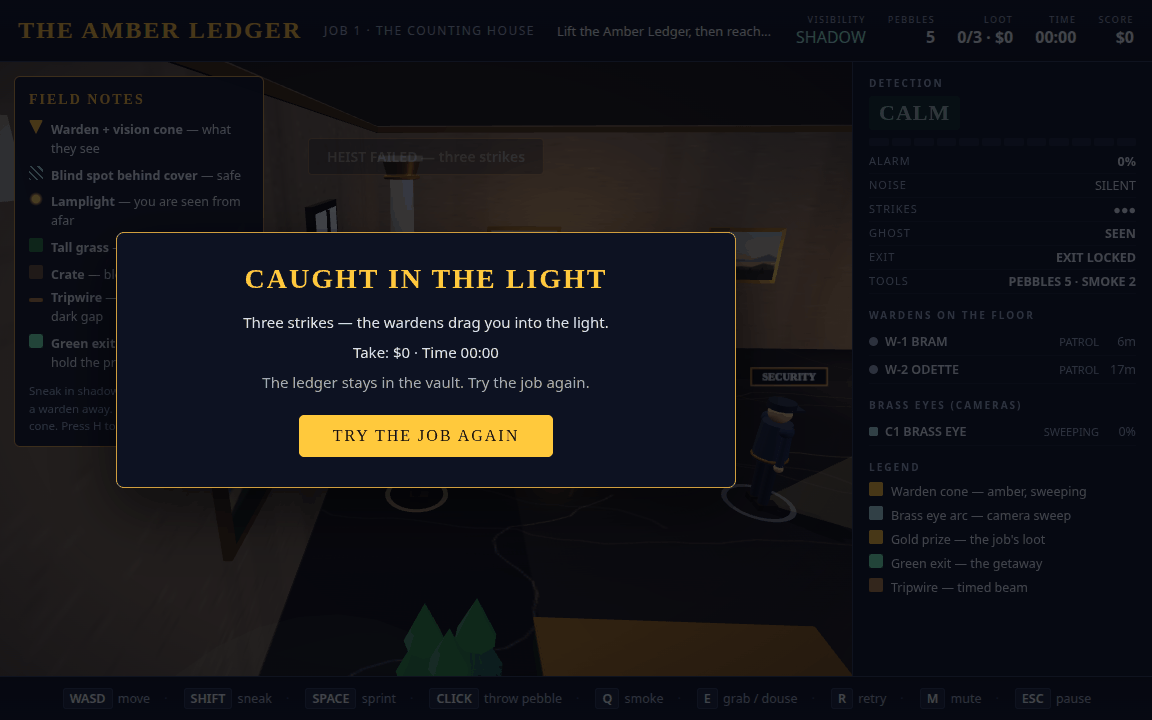
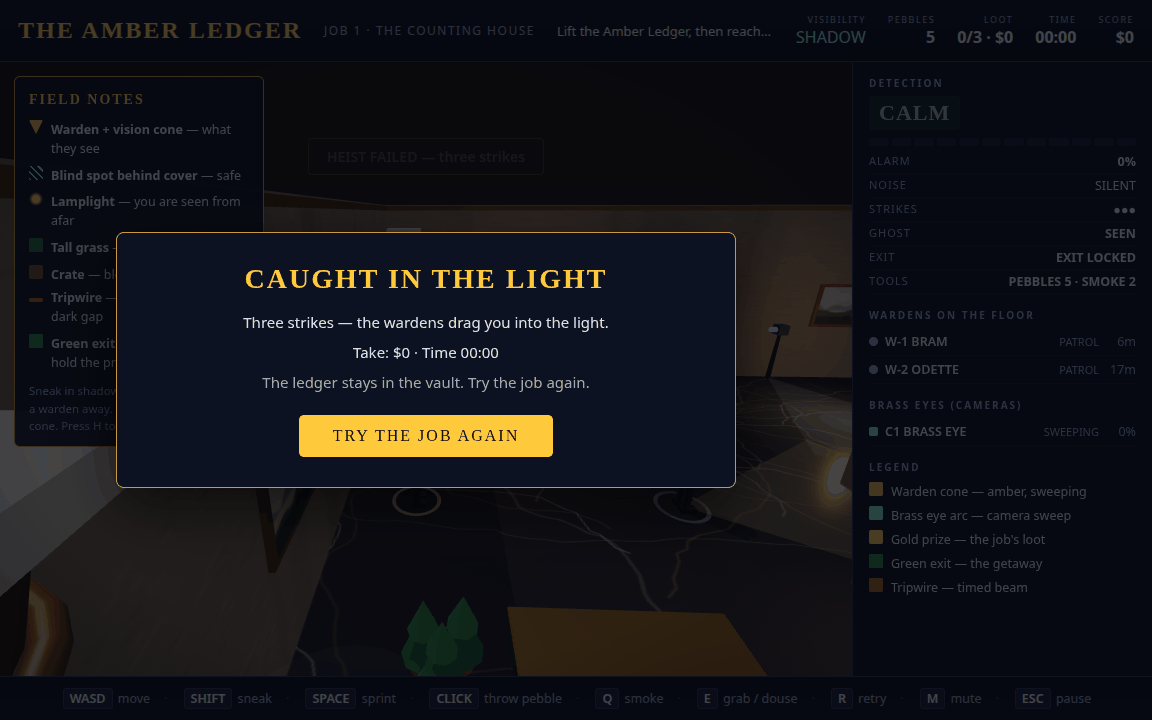
Polish heist render vs reference: grand staged camera, brighter marble, guard faces, vault door fully clear, loot label in frame

diff --git a/game/src/render.js b/game/src/render.js
@@ -120,18 +120,20 @@ function coneFadeTexture() {
   });
 }
 
-// Black marble with white and gold veins, like the reference floor.
+// Black marble with strong white and gold veins, like the reference
+// floor: a lighter base, denser veins and a polished sheen, so the
+// floor reads bright and rich at the low camera's grazing angle.
 function marbleTexture(seed) {
   const rnd = mulberry32(seed);
   return canvasTexture(1024, 1024, (g, w, h) => {
-    g.fillStyle = '#232329';
+    g.fillStyle = '#303038';
     g.fillRect(0, 0, w, h);
     // Large soft mottling.
     for (let i = 0; i < 14; i++) {
       const x = rnd() * w, y = rnd() * h, r = 120 + rnd() * 260;
       const grad = g.createRadialGradient(x, y, 0, x, y, r);
       const v = rnd() > 0.5 ? '255,255,255' : '0,0,0';
-      grad.addColorStop(0, `rgba(${v},${0.05 + rnd() * 0.05})`);
+      grad.addColorStop(0, `rgba(${v},${0.06 + rnd() * 0.06})`);
       grad.addColorStop(1, `rgba(${v},0)`);
       g.fillStyle = grad;
       g.fillRect(x - r, y - r, r * 2, r * 2);
@@ -153,9 +155,9 @@ function marbleTexture(seed) {
       }
       g.stroke();
     }
-    for (let i = 0; i < 26; i++) vein('rgba(230,235,245,A)', 0.08 + rnd() * 0.12, 1 + rnd() * 1.6);
-    for (let i = 0; i < 8; i++) vein('rgba(205,165,85,A)', 0.1 + rnd() * 0.1, 0.8 + rnd() * 1);
-    for (let i = 0; i < 5; i++) vein('rgba(240,244,255,A)', 0.22 + rnd() * 0.1, 0.8);
+    for (let i = 0; i < 44; i++) vein('rgba(230,235,245,A)', 0.14 + rnd() * 0.16, 1 + rnd() * 1.4);
+    for (let i = 0; i < 12; i++) vein('rgba(205,165,85,A)', 0.14 + rnd() * 0.12, 0.8 + rnd() * 1);
+    for (let i = 0; i < 10; i++) vein('rgba(240,244,255,A)', 0.3 + rnd() * 0.15, 1.0);
   });
 }
 
@@ -293,11 +295,17 @@ function sectorRingGeometry(radius, halfAngle) {
 // always sits 8.5 units south of the thief, so no column stands in the
 // south hall band where the camera travels — the hall columns sit at the
 // room's east side instead, and the vault-flank columns stand clear of
-// the vault door's face so the door reads as the backdrop.
+// the vault door's face so the door reads as the backdrop. Job 1's west
+// vault-flank column stands INSIDE the vault room (21.8, 5.2): from the
+// cover camera the sight line to the door crosses (22.8, 7.9), so a
+// column there would cut the door in half. The north-east corner
+// column sits south of the corner (z 4.2) for the same reason: the
+// vault door stands close to the east wall, and a corner column at
+// (28.3, 1.7) crosses the door's right edge from the cover camera.
 const COLUMNS = {
-  1: [[1.7, 1.7], [28.3, 1.7], [1.7, 16.3], [28.3, 16.3], [22.8, 7.9], [28.2, 7.9], [13.5, 7.5], [27.5, 12.5]],
-  2: [[1.7, 1.7], [28.3, 1.7], [1.7, 16.3], [28.3, 16.3], [21.8, 7.9], [27.2, 7.9], [13.5, 7.5], [27.5, 12.5]],
-  3: [[1.7, 1.7], [30.3, 1.7], [1.7, 18.3], [30.3, 18.3], [23.8, 8.9], [29.2, 8.9], [14.5, 8.5], [30.3, 13.5]],
+  1: [[1.7, 1.7], [28.3, 4.2], [1.7, 16.3], [28.3, 16.3], [21.8, 5.2], [28.2, 7.9], [13.5, 7.5], [27.5, 12.5]],
+  2: [[1.7, 1.7], [28.3, 4.2], [1.7, 16.3], [28.3, 16.3], [21.8, 7.9], [27.2, 7.9], [13.5, 7.5], [27.5, 12.5]],
+  3: [[1.7, 1.7], [30.3, 4.2], [1.7, 18.3], [30.3, 18.3], [23.8, 8.9], [29.2, 8.9], [14.5, 8.5], [30.3, 13.5]],
 };
 // Red carpet runner: centre x, from y0 (vault gap) to y1 (south hall).
 const RUNNERS = {
@@ -328,6 +336,14 @@ export function createRenderer(canvas) {
   const CAM_FOV = 58;
   const LOOK_AHEAD = 3.5;
   const LOOK_HEIGHT = 0.9;
+  // Staged shots (cover / smoke / win / caught) use a wider, higher
+  // establishing camera so the whole vault hall reads in one grand frame
+  // like the reference: the vault door, the columns, the carpet and the
+  // guards all in view at once. Live play keeps the closer follow camera.
+  const STAGE_HEIGHT = 6.2;
+  const STAGE_FOV = 70;
+  const STAGE_LOOK_AHEAD = 6.0;
+  const STAGE_LOOK_HEIGHT = 1.3;
   const camera = new THREE.PerspectiveCamera(CAM_FOV, 1, 0.1, 200);
   camera.position.set(0, CAM_HEIGHT, CAM_BACK);
   const desiredPos = new THREE.Vector3();
@@ -449,6 +465,25 @@ export function createRenderer(canvas) {
       const badge = new THREE.Mesh(new THREE.BoxGeometry(0.1, 0.13, 0.02), goldMat);
       badge.position.set(0, 1.3, 0.23);
       g.add(badge);
+      // A simple readable face: dark eyes, a nose and a mouth on the
+      // skin-tone head. The eyes sit low (y 1.63) so the cap brim does
+      // not hide them from the low camera's downward angle.
+      const eyeMat = new THREE.MeshStandardMaterial({ color: 0x14100d, roughness: 0.4 });
+      for (const s of [-1, 1]) {
+        const eye = new THREE.Mesh(new THREE.SphereGeometry(0.03, 8, 8), eyeMat);
+        eye.position.set(s * 0.062, 1.63, 0.155);
+        g.add(eye);
+      }
+      const noseMat = new THREE.MeshStandardMaterial({ color: 0xb98d63, roughness: 0.8 });
+      const nose = new THREE.Mesh(new THREE.SphereGeometry(0.02, 8, 8), noseMat);
+      nose.position.set(0, 1.59, 0.158);
+      g.add(nose);
+      const mouth = new THREE.Mesh(
+        new THREE.BoxGeometry(0.09, 0.018, 0.012),
+        new THREE.MeshStandardMaterial({ color: 0x5a2e22, roughness: 0.8 }),
+      );
+      mouth.position.set(0, 1.55, 0.152);
+      g.add(mouth);
     }
     return { group: g, legL, legR, armL, armR };
   }
@@ -597,17 +632,29 @@ export function createRenderer(canvas) {
     const p = game.player;
     const level = game.level;
     if (!p || !level) return;
+    // Staged moments get the grand establishing camera; live play keeps
+    // the closer follow camera. (buildLevel calls this with a fake game
+    // that has no phase, so it defaults to the follow camera.)
+    const staged = game.phase === 'staged' || game.phase === 'staged-complete' || game.phase === 'failed';
+    const height = staged ? STAGE_HEIGHT : CAM_HEIGHT;
+    const lookAhead = staged ? STAGE_LOOK_AHEAD : LOOK_AHEAD;
+    const lookHeight = staged ? STAGE_LOOK_HEIGHT : LOOK_HEIGHT;
+    const fov = staged ? STAGE_FOV : CAM_FOV;
+    if (camera.fov !== fov) {
+      camera.fov = fov;
+      camera.updateProjectionMatrix();
+    }
     // The camera stays inside the room (the 6-high perimeter walls would
     // block the view from outside), a few steps south of the thief.
     desiredPos.set(
       clamp(p.x, 3, level.w - 3),
-      CAM_HEIGHT,
+      height,
       clamp(p.y + CAM_BACK, 2, level.h - 1.2),
     );
     desiredLook.set(
       clamp(p.x, 1.5, level.w - 1.5),
-      LOOK_HEIGHT,
-      clamp(p.y - LOOK_AHEAD, 0.5, level.h - 0.5),
+      lookHeight,
+      clamp(p.y - lookAhead, 0.5, level.h - 0.5),
     );
     if (force || camera.position.distanceTo(desiredPos) > 4) {
       camera.position.copy(desiredPos);
@@ -648,8 +695,8 @@ export function createRenderer(canvas) {
     const floor = new THREE.Mesh(
       new THREE.PlaneGeometry(level.w, level.h),
       new THREE.MeshPhysicalMaterial({
-        map: floorTex, roughness: 0.32, metalness: 0.08,
-        clearcoat: 0.6, clearcoatRoughness: 0.3,
+        map: floorTex, roughness: 0.2, metalness: 0.05,
+        clearcoat: 0.95, clearcoatRoughness: 0.16,
       }),
     );
     floor.rotation.x = -Math.PI / 2;
@@ -876,7 +923,11 @@ export function createRenderer(canvas) {
     lootRing.position.y = 0.03;
     lootGroup.add(lootRing);
     const lootLabel = textSprite(level.loot.label, { size: 40, color: '#ffd97a', w: 640, h: 96 });
-    lootLabel.position.y = 2.4;
+    // Smaller and shifted toward the room's centre: the loot sits near
+    // the east wall, and at the default scale the label ran under the
+    // right HUD panel in the cover shot.
+    lootLabel.scale.set(2.4, 2.4 * (96 / 640), 1);
+    lootLabel.position.set(-1.0, 2.4, 0);
     lootGroup.add(lootLabel);
     levelGroup.add(lootGroup);
     dynamic.loot = { group: lootGroup, mesh: lootMesh, light: lootLight, ring: lootRing, label: lootLabel };
